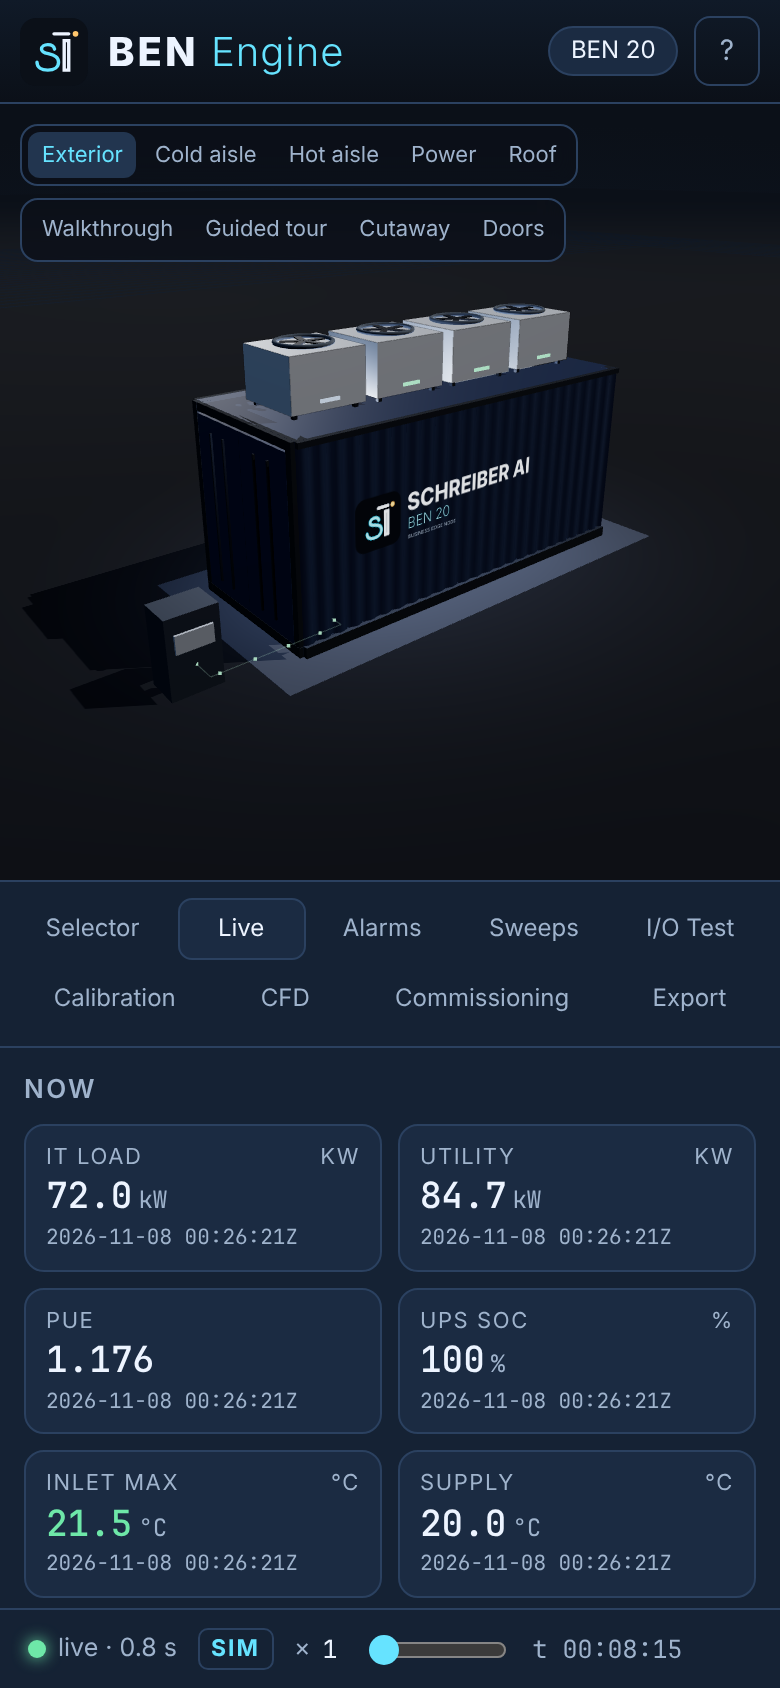
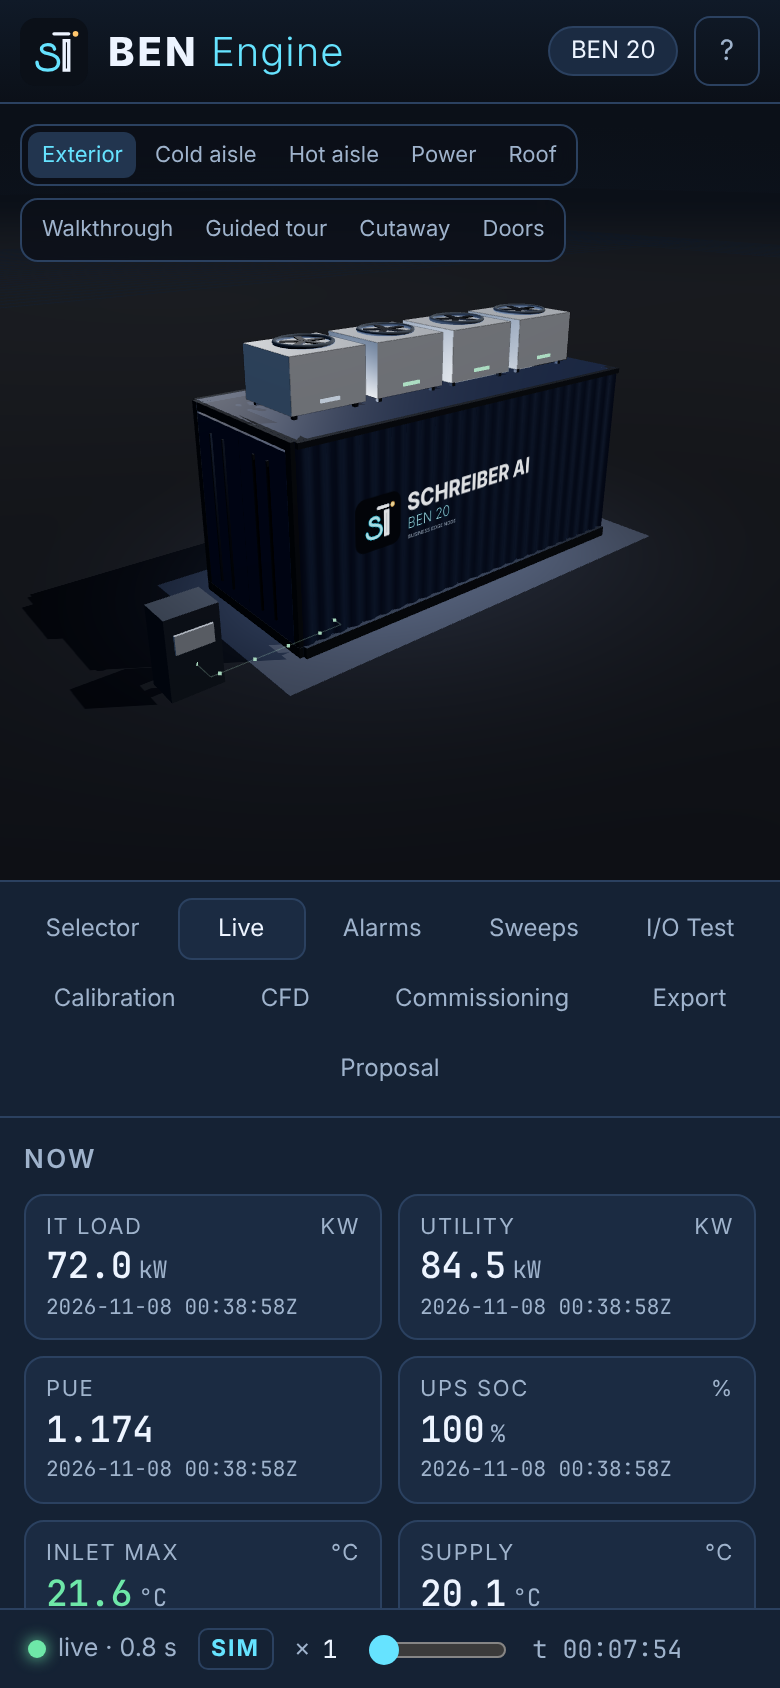
Record e2e result (22/22), tidy proposal panel price table
Claude-Session: https://claude.ai/code/session_01THwUixfoH2Qd4mDH1v6RRe

diff --git a/dashboard/static/style.css b/dashboard/static/style.css
@@ -203,3 +203,7 @@ table.data td.num { font-family: var(--mono); text-align: right; }
   #st-step { display: none; }
   .statusbar { gap: 10px; }
 }
+
+/* proposal panel price table */
+.panel table.kv td, .panel table.kv th { padding: 4px 10px 4px 0; white-space: nowrap; text-align: left; }
+.panel table.kv td:first-child { white-space: normal; }

diff --git a/docs/VALIDATION.md b/docs/VALIDATION.md
@@ -28,7 +28,7 @@ Calibration budgets computed (k = 2): DS18B20 ±0.17 K, SHT45 T ±0.14 K, SHT45 
 
 ## 3. Dashboard (Playwright, Chromium, software WebGL)
 
-<!-- E2E_RESULT -->
+`bash tests/e2e/run_e2e.sh` (2026-11-08): **22/22 checks passed, exit 0**, about 13 minutes under software WebGL. Checks: server up with modules; WebSocket live; BEN 20 scene 5 racks / 27 sensors; selector to BEN 40 rebuilds twin and scene (10 racks); invalid configuration shows inline error and disables Apply; BEN Micro renders one cabinet; walkthrough eye height 1.70 m stays inside; cooling fault via UI raises alarm, click selects the unit in 3-D, clear via UI; sweep run and CSV download (105 lines); every panel renders; calibration demo points give gain/offset/U95; guided tour 24 frames with captions; **proposal panel generates a proposal from the current configuration and the HTML is served**; 390 px layout stacks with no horizontal scroll; 0 uncaught page errors.
 
 Screenshots inspected by eye: `docs/media/screens/desktop-exterior-iso.png`, `interior-walkthrough.png`, `alarms.png`, `sweeps.png`, `selector-micro.png`, `selector-ben40.png`, `narrow-390.png`, `live-hot-aisle.png`, `proposal-panel.png`, `web-hero.png`, `web-configure.png`, `web-narrow.png`, `proposal-1.png`, `proposal-2.png`. Fixes made from looking are listed in `docs/PROJECT_NOTES.md`.
 
